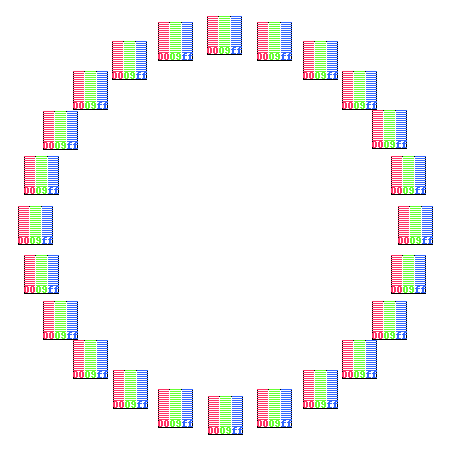
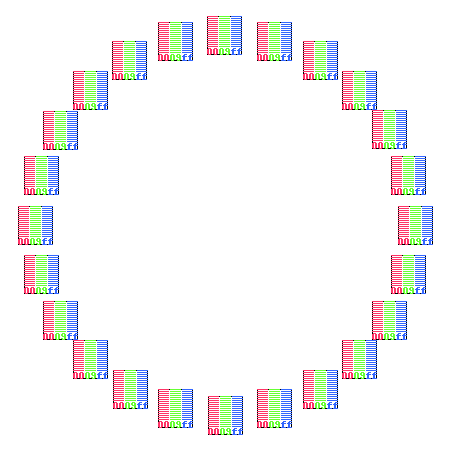
ゲージを分解

diff --git a/step3.py b/step3.py
@@ -31,9 +31,12 @@ def paint_gauge(src_center_x, src_center_y, r, g, b):
     w = 10
     h = 0
 
+    # フォントのだいたいの高さ
+    font_height = 8
+
     # ゲージの矩形面積をだいたい計算
     gauge_w = 3*(w+2)-2
-    gauge_h = 16*(h+2)+6
+    gauge_h = 16*(h+2)+font_height-2
 
     # 中心座標を 左上起点座標に変更
     src_x = src_center_x - gauge_w/2
@@ -43,19 +46,16 @@ def paint_gauge(src_center_x, src_center_y, r, g, b):
     draw.rectangle((src_x, src_y, gauge_w+src_x,
                     gauge_h+src_y), outline=black)
 
-    y = src_y
-    for _ in range(0, 16):
-        x = src_x
-        draw.rectangle((x, y, x+w, y+h), fill=red, outline=None)
-        x += w+2
-        draw.rectangle((x, y, x+w, y+h), fill=green, outline=None)
-        x += w+2
-        draw.rectangle((x, y, x+w, y+h), fill=blue, outline=None)
+    # 赤ゲージ
+    paint_one_color_gauge(src_x, src_y, w, h, red)
 
-        # 2px は開けないと、くっついている。 +1 だと隣なので
-        y += h+2
+    # 青ゲージ
+    paint_one_color_gauge(src_x+w+2, src_y, w, h, green)
 
-    y -= h+3
+    # 緑ゲージ
+    paint_one_color_gauge(src_x+2*(w+2), src_y, w, h, blue)
+
+    y = gauge_h+src_y-font_height
     x = src_x
     draw.text((x, y), f"{r:02x}", red)
     x += w+2
@@ -64,6 +64,18 @@ def paint_gauge(src_center_x, src_center_y, r, g, b):
     draw.text((x, y), f"{b:02x}", blue)
 
     im.save('shared/pillow_imagedraw.png', quality=95)
+
+
+def paint_one_color_gauge(src_left, src_top, w, h, fill_color):
+    """一色ゲージ"""
+
+    y = src_top
+    for _ in range(0, 16):
+        x = src_left
+        draw.rectangle((x, y, x+w, y+h), fill=fill_color, outline=None)
+
+        # 2px は開けないと、くっついている。 +1 だと隣なので
+        y += h+2
     pass
 
 
